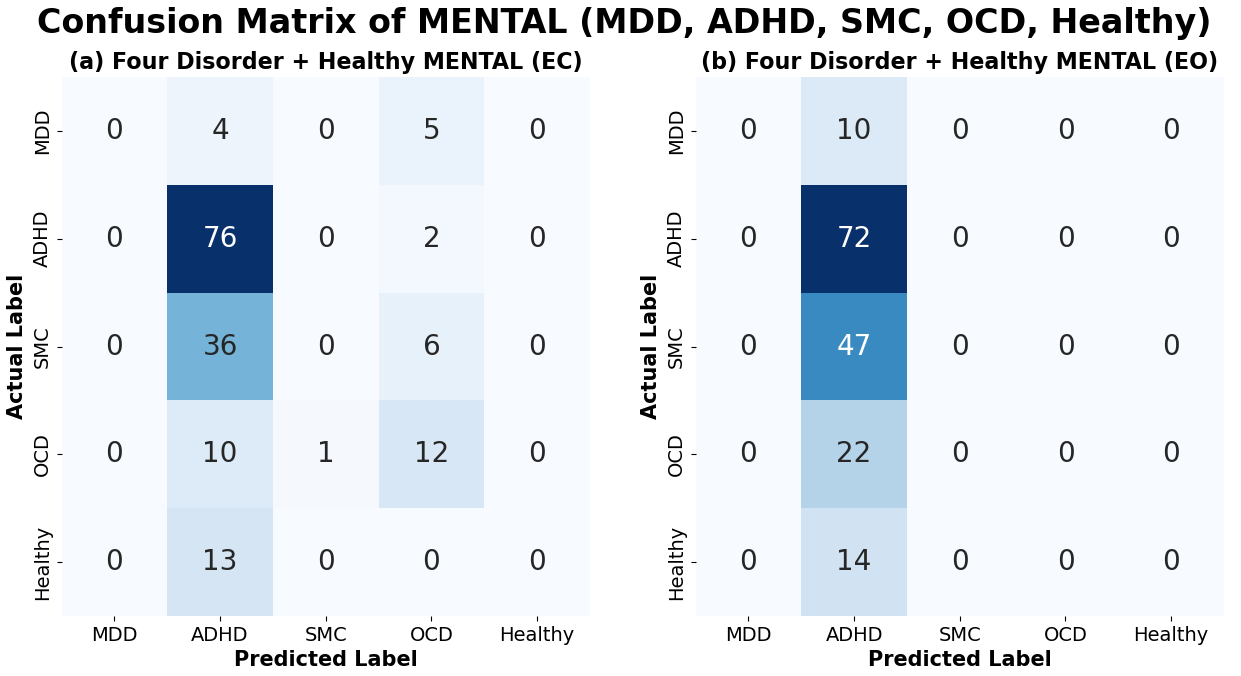
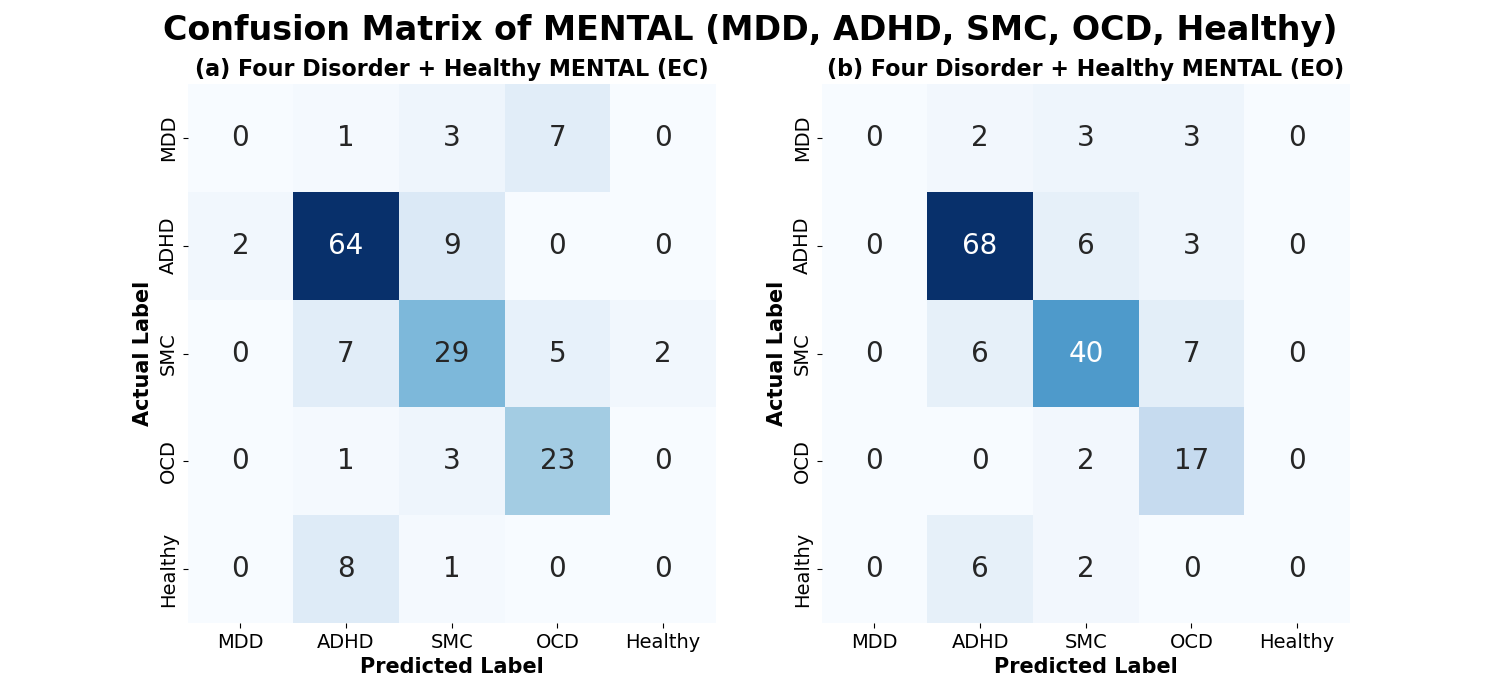
testing 1e5 again

diff --git a/plotPSD.py b/plotPSD.py
@@ -1222,61 +1222,62 @@ def plot_MENTAL_MultiClass_Comparison_top5():
     ic = "tab:orange"
     oc = "tab:green"
 
-    figure, axis = plt.subplots(1, 2, figsize=(15, 14)) 
+    figure, axis = plt.subplots(1, 2, figsize=(15, 5)) 
   
-    figure.suptitle("Accuracy of MENTAL", fontsize=24, weight="bold")
+    figure.suptitle("Accuracy of MENTAL (MDD, ADHD, SMC, OCD, Healthy)", fontsize=24, weight="bold")
 
     # For EC Multi Class
-    e15_accs = np.load("C:\\Users\\glgre\\Documents\\ResearchCode\\new_TOP5_1e4_MENTAL_EC_IMPUTED_ACCS.npy", allow_pickle=True)
-    e55_accs = np.load("C:\\Users\\glgre\\Documents\\ResearchCode\\new_TOP5_1e5_MENTAL_EC_IMPUTED_ACCS.npy", allow_pickle=True)
-    e54_accs = np.load("C:\\Users\\glgre\\Documents\\ResearchCode\\new_TOP5_6e4_MENTAL_EC_IMPUTED_ACCS.npy", allow_pickle=True)
+    e15_accs = np.load("C:\\Users\\glgre\\Documents\\ResearchCode\\new_TOP5_1e5_MENTAL_EC_IMPUTED_ACCS.npy", allow_pickle=True)
+    #e25_accs = np.load("C:\\Users\\glgre\\Documents\\ResearchCode\\new_TOP5_2e5_MENTAL_EC_IMPUTED_ACCS.npy", allow_pickle=True)
+    #e54_accs = np.load("C:\\Users\\glgre\\Documents\\ResearchCode\\new_TOP5_6e4_MENTAL_EC_IMPUTED_ACCS.npy", allow_pickle=True)
     
-    axis[0].plot(e15_accs, label="MENTAL 1e4", c=ic) 
-    axis[0].plot(e55_accs, label="MENTAL 1e5", c=nc)
-    axis[0].plot(e54_accs, label="MENTAL 6e4", c=oc)
+    axis[0].plot(e15_accs, label="MENTAL 1e5", c=ic) 
+    #axis[0].plot(e25_accs, label="MENTAL 2e5", c=nc)
+    #axis[0].plot(e54_accs, label="MENTAL 6e4", c=oc)
     axis[0].set_xlabel("Epoch", fontsize=16)
     axis[0].set_ylabel("Accuracy", fontsize=16)
-    axis[0].set_xticks(ticks=np.arange(0,3001,500), labels=np.arange(0,3001,500), fontsize=14)
+    axis[0].set_xticks(ticks=np.arange(0,5001,500), labels=np.arange(0,5001,500), fontsize=11)
     axis[0].set_yticks(ticks=np.arange(0,1.01,0.1), labels=[0,0.1,0.2,0.3,0.4,0.5,0.6,0.7,0.8,0.9,1], fontsize=14)
-    axis[0].set_title("(a) Multi-class MENTAL EC", fontsize=16, weight="bold") 
+    axis[0].set_title("(a) Four Disorder + Healthy MENTAL EC", fontsize=16, weight="bold") 
 
     print("\n\nMulti-class prediction EC:")
-    print(f"\tMENTAL 1e4: {e15_accs[2999]}")
-    print(f"\tMENTAL 1e5: {e55_accs[2999]}")
-    print(f"\tMENTAL 6e4: {e54_accs[2999]}\n")
+    print(f"\tMENTAL 1e5: {e15_accs[4999]}")
+    #print(f"\tMENTAL 2e5: {e25_accs[4999]}")
+    #print(f"\tMENTAL 6e4: {e54_accs[2999]}\n")
 
-    print(f"\tmax MENTAL 1e4: {np.max(e15_accs)}")
-    print(f"\tmax MENTAL 1e5: {np.max(e55_accs)}")
-    print(f"\tmax MENTAL 6e4: {np.max(e54_accs)}")
+    print(f"\tmax MENTAL 1e5: {np.max(e15_accs)}")
+    #print(f"\tmax MENTAL 2e5: {np.max(e25_accs)}")
+    #print(f"\tmax MENTAL 6e4: {np.max(e54_accs)}")
 
     # For EO Multi Class
-    e15_accs = np.load("C:\\Users\\glgre\\Documents\\ResearchCode\\new_TOP5_1e4_MENTAL_EO_IMPUTED_ACCS.npy", allow_pickle=True)
-    e55_accs = np.load("C:\\Users\\glgre\\Documents\\ResearchCode\\new_TOP5_1e5_MENTAL_EO_IMPUTED_ACCS.npy", allow_pickle=True)
-    e54_accs = np.load("C:\\Users\\glgre\\Documents\\ResearchCode\\new_TOP5_6e4_MENTAL_EO_IMPUTED_ACCS.npy", allow_pickle=True)
+    e15_accs = np.load("C:\\Users\\glgre\\Documents\\ResearchCode\\new_TOP5_1e5_MENTAL_EO_IMPUTED_ACCS.npy", allow_pickle=True)
+    #e25_accs = np.load("C:\\Users\\glgre\\Documents\\ResearchCode\\new_TOP5_2e5_MENTAL_EO_IMPUTED_ACCS.npy", allow_pickle=True)
+    #e54_accs = np.load("C:\\Users\\glgre\\Documents\\ResearchCode\\new_TOP5_6e4_MENTAL_EO_IMPUTED_ACCS.npy", allow_pickle=True)
     
     axis[1].plot(e15_accs, c=ic) 
-    axis[1].plot(e55_accs, c=nc)
-    axis[1].plot(e54_accs, c=oc)
+    #axis[1].plot(e25_accs, c=nc)
+    #axis[1].plot(e54_accs, c=oc)
     axis[1].set_xlabel("Epoch", fontsize=16)
     axis[1].set_ylabel("Accuracy", fontsize=16)
-    axis[1].set_xticks(ticks=np.arange(0,2501,100), labels=np.arange(0,2501,100), fontsize=11)
+    axis[1].set_xticks(ticks=np.arange(0,5001,500), labels=np.arange(0,5001,500), fontsize=11)
     axis[1].set_yticks(ticks=np.arange(0,1.01,0.1), labels=[0,0.1,0.2,0.3,0.4,0.5,0.6,0.7,0.8,0.9,1], fontsize=14)
-    axis[1].set_title("(b) Multi-class MENTAL EO", fontsize=16, weight="bold") 
+    axis[1].set_title("(b) Four Disorder + Healthy MENTAL EO", fontsize=16, weight="bold") 
 
     print("\n\nMulti-class prediction EO:")
-    print(f"\tMENTAL 1e4: {e15_accs[2999]}")
-    print(f"\tMENTAL 1e5: {e55_accs[2999]}")
-    print(f"\tMENTAL 6e4: {e54_accs[2999]}\n")
+    print(f"\tMENTAL 1e5: {e15_accs[4999]}")
+    #print(f"\tMENTAL 2e5: {e25_accs[4999]}")
+    #print(f"\tMENTAL 6e4: {e54_accs[2999]}\n")
 
-    print(f"\tmax MENTAL 1e4: {np.max(e15_accs)}")
-    print(f"\tmax MENTAL 1e5: {np.max(e55_accs)}")
-    print(f"\tmax MENTAL 6e4: {np.max(e54_accs)}")
+    print(f"\tmax MENTAL 1e5: {np.max(e15_accs)}")
+    print(np.where(e15_accs == np.max(e15_accs)))
+    #print(f"\tmax MENTAL 2e5: {np.max(e25_accs)}")
+    #print(f"\tmax MENTAL 6e4: {np.max(e54_accs)}")
 
-    figure.legend(loc="lower center", fontsize=20)
-    plt.subplots_adjust(hspace = 0.3, wspace=0.15)
-
-    plt.show()
-    #plt.savefig("top3_mental")
+    #figure.legend(loc="lower center", fontsize=20)
+    #plt.subplots_adjust(hspace = 0.3, wspace=0.15)
+    plt.tight_layout()
+    #plt.show()
+    #plt.savefig("new_top5_mental")
 
 #plot_MENTAL_MultiClass_Comparison_top5()
 
@@ -1379,21 +1380,75 @@ def plot_confusion_top5():
     confusion_ec = np.load("C:\\Users\\glgre\\Documents\\ResearchCode\\new_TOP5_1e5_MENTAL_EC_IMPUTED_CONFUSION.npy", allow_pickle=True)
     confusion_eo = np.load("C:\\Users\\glgre\\Documents\\ResearchCode\\new_TOP5_1e5_MENTAL_EO_IMPUTED_CONFUSION.npy", allow_pickle=True)
     
-    g = sns.heatmap(confusion_ec[2999], annot=True, cmap='Blues', xticklabels=['MDD', 'ADHD', 'SMC', 'OCD', 'Healthy'], yticklabels=['MDD', 'ADHD', 'SMC', 'OCD', 'Healthy'], cbar=False, ax=axis[0], annot_kws={'size': 20})
+    g = sns.heatmap(confusion_ec[4999], annot=True, cmap='Blues', xticklabels=['MDD', 'ADHD', 'SMC', 'OCD', 'Healthy'], yticklabels=['MDD', 'ADHD', 'SMC', 'OCD', 'Healthy'], cbar=False, ax=axis[0], annot_kws={'size': 20})
     g.set_xticklabels(g.get_xmajorticklabels(), fontsize = 14)
     g.set_yticklabels(g.get_ymajorticklabels(), fontsize = 14)
     axis[0].set_xlabel(xlabel='Predicted Label', fontsize=15, weight="bold")
     axis[0].set_ylabel(ylabel='Actual Label', fontsize=15, weight="bold")
     axis[0].set_title("(a) Four Disorder + Healthy MENTAL (EC)", fontsize=16, weight="bold") 
 
-    g=sns.heatmap(confusion_eo[2999], annot=True, cmap='Blues', xticklabels=['MDD', 'ADHD', 'SMC', 'OCD', 'Healthy'], yticklabels=['MDD', 'ADHD', 'SMC', 'OCD', 'Healthy'], cbar=False, ax=axis[1], annot_kws={'size': 20})
+    g=sns.heatmap(confusion_eo[3728], annot=True, cmap='Blues', xticklabels=['MDD', 'ADHD', 'SMC', 'OCD', 'Healthy'], yticklabels=['MDD', 'ADHD', 'SMC', 'OCD', 'Healthy'], cbar=False, ax=axis[1], annot_kws={'size': 20})
     g.set_xticklabels(g.get_xmajorticklabels(), fontsize = 14)
     g.set_yticklabels(g.get_ymajorticklabels(), fontsize = 14)
     axis[1].set_xlabel(xlabel='Predicted Label', fontsize=15, weight="bold")
     axis[1].set_ylabel(ylabel='Actual Label', fontsize=15, weight="bold")
     axis[1].set_title("(b) Four Disorder + Healthy MENTAL (EO)", fontsize=16, weight="bold") 
 
-    plt.show()
-    #plt.savefig("Confusions_top5")
+    #plt.show()
+    plt.savefig("Confusions_top5")
 
-plot_confusion_top5()
+#plot_confusion_top5()
+
+def calculate_metrics_ec():
+    confusion_ec = np.load("C:\\Users\\glgre\\Documents\\ResearchCode\\new_TOP5_1e5_MENTAL_EC_IMPUTED_CONFUSION.npy", allow_pickle=True)
+    confusion_ec = confusion_ec[4999]
+    
+    #print(confusion_ec)
+    precs = []
+    recalls = []
+    for i in range(5):
+        prec = confusion_ec[i,i]/np.sum(confusion_ec[i])
+        precs.append(prec)
+
+        recall = confusion_ec[i,i]/np.sum(confusion_ec[:,i])
+        recalls.append(recall)
+    
+    prec_tot = sum(precs)/5
+    print(f"\nEC Precision: {prec_tot}")
+
+    recall_tot = sum(recalls)/5
+    print(f"EC Recall: {recall_tot}")
+
+    f1_score = 2*(prec_tot*recall_tot)/(prec_tot+recall_tot)  
+    print(f"EC F1-Score: {f1_score}")
+
+calculate_metrics_ec()
+
+def calculate_metrics_eo():
+    confusion_eo = np.load("C:\\Users\\glgre\\Documents\\ResearchCode\\new_TOP5_1e5_MENTAL_EO_IMPUTED_CONFUSION.npy", allow_pickle=True)
+
+    confusion_eo = confusion_eo[3728]
+
+    #print(confusion_eo)
+    precs = []
+    recalls = []
+    for i in range(5):
+        prec = confusion_eo[i,i]/np.sum(confusion_eo[i])
+        precs.append(prec)
+
+        if(np.sum(confusion_eo[:,i]) == 0):
+            recalls.append(0.0)
+        else:
+            recall = confusion_eo[i,i]/np.sum(confusion_eo[:,i])
+            recalls.append(recall)
+    
+    prec_tot = sum(precs)/5
+    print(f"\nEO Precision: {prec_tot}")
+
+    recall_tot = sum(recalls)/5
+    print(f"EO Recall: {recall_tot}")
+
+    f1_score = 2*(prec_tot*recall_tot)/(prec_tot+recall_tot)  
+    print(f"EO F1-Score: {f1_score}")
+
+calculate_metrics_eo()

diff --git a/train_EEG.py b/train_EEG.py
@@ -589,7 +589,7 @@ def run_train_EC_Multi(learn_rate, wd, batch_sz, epochs, outfile):
 
     splits = [615, 165, 11]
 
-    res = data.random_split(main_dataset, splits, generator=torch.Generator().manual_seed(40))
+    res = data.random_split(main_dataset, splits, generator=torch.Generator().manual_seed(43))
 
     train_loader = data.DataLoader(res[0], batch_size=batch_sz, shuffle=True)
     test_loader  = data.DataLoader(res[1], batch_size=batch_sz, shuffle=True)
@@ -724,7 +724,7 @@ def run_train_EO_Multi(learn_rate, wd, batch_sz, epochs, outfile):
 
     splits = [615, 165, 10]
 
-    res = data.random_split(main_dataset, splits, generator=torch.Generator().manual_seed(40))
+    res = data.random_split(main_dataset, splits, generator=torch.Generator().manual_seed(43))
 
     train_loader = data.DataLoader(res[0], batch_size=batch_sz, shuffle=True)
     test_loader  = data.DataLoader(res[1], batch_size=batch_sz, shuffle=True)
@@ -1131,7 +1131,7 @@ def run_train_EO_Multi_top3(learn_rate, wd, batch_sz, epochs, outfile):
 epoch = [5000]
 batches = [15]
 
-learn = 2e-5
+learn = 1e-5
 weight_decay = 1e-6
 
 for i in range(0, len(epoch)):
